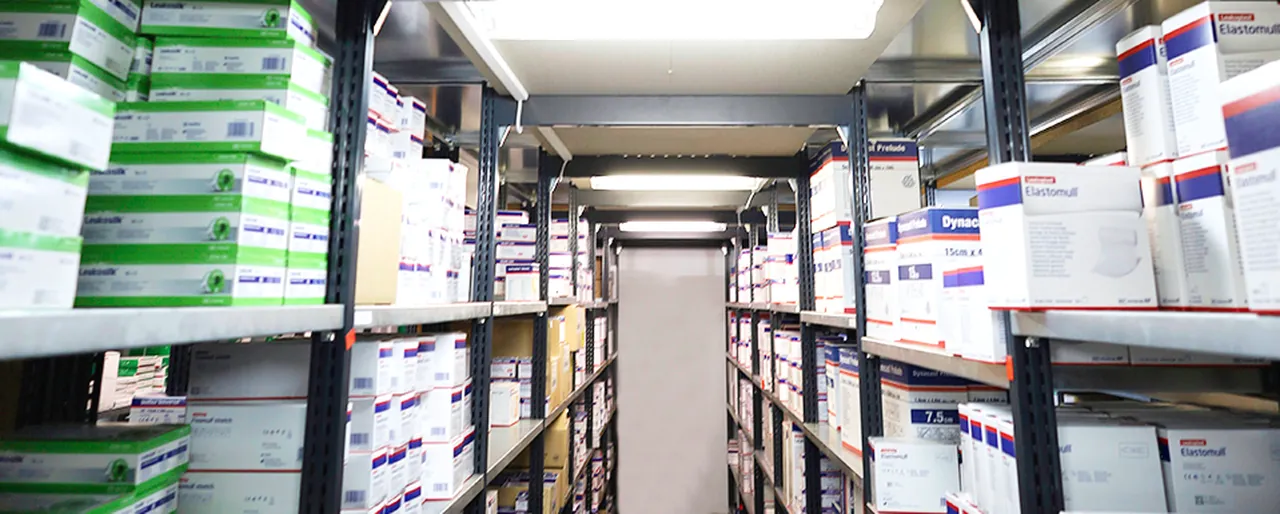
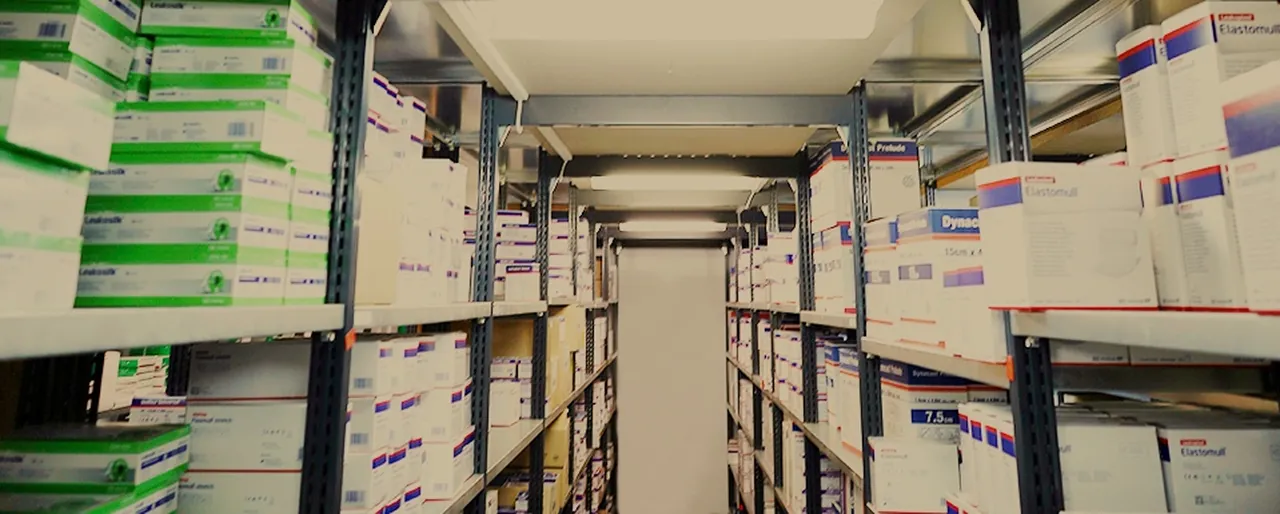
Lagerfoto warm nachbelichtet, Team-Zuordnung Einkauf/Innendienst korrigiert
Rückmeldung zum Lagerfoto: stark überbelichtet, wirkte klinisch-kalt.
Warme Farbkorrektur mit sanfter Höhen-Kompression (filmische Tonwertkurve)
angewendet, damit die ausgebrannte Deckenbeleuchtung Zeichnung zurückbekommt,
plus Rot/Gelb angehoben und Blau zurückgenommen für einen wärmeren Ton.
Beide abgeleiteten Varianten (lager-regale, lager-regale-quad) neu
exportiert.

Team-Korrektur (von einem Mitarbeiter bestätigt): Christoph Gansler
gehört zum Einkauf, nicht zur Auftragsannahme. Gabriele Bergmeister ist
Innendienstmitarbeiterin, nicht Einkauf. Beide Zuordnungen in team.ts
getauscht -- die ursprüngliche Website-Struktur hatte das andersherum
gelistet.

Der gemeldete Bug "nach Klick auf eine Unterseite laden keine Grafiken
mehr" ließ sich nicht reproduzieren: getestet mit http-server, Pythons
http.server (identisches Setup wie beim Melden) und der Live-Netlify-
Seite -- in allen drei Fällen blieben nach Navigation und Rücksprung
sämtliche Bilder intakt, keine Konsolenfehler. Vermutlich ein lokaler
Browser-Cache-Konflikt zwischen älteren und neueren Build-Ständen.

Geprüft: qa.mjs weiterhin 0 Befunde, ESLint und TypeScript fehlerfrei.

Claude-Session: https://claude.ai/code/session_01NZDED2mY2na3YP7scN1u3a

diff --git a/src/data/team.ts b/src/data/team.ts
@@ -99,7 +99,7 @@ export const teamGroups: TeamGroup[] = [
         lowRes: true,
       },
       { name: "Katharina Weber", photo: "Kathi", since: 2022 },
-      { name: "Christoph Gansler", photo: "Christoph", since: 2022 },
+      { name: "Gabriele Bergmeister", photo: "Gabriele_Bergmeister", since: 2022 },
     ],
   },
   {
@@ -107,7 +107,7 @@ export const teamGroups: TeamGroup[] = [
     name: "Einkauf",
     summary:
       "Sorgt dafür, dass die über 6.000 Lagerartikel verfügbar bleiben – und dass nur Lieferanten mit eigener Qualitätssicherung zum Zug kommen.",
-    members: [{ name: "Gabriele Bergmeister", photo: "Gabriele_Bergmeister", since: 2022 }],
+    members: [{ name: "Christoph Gansler", photo: "Christoph", since: 2022 }],
   },
   {
     id: "lager",
